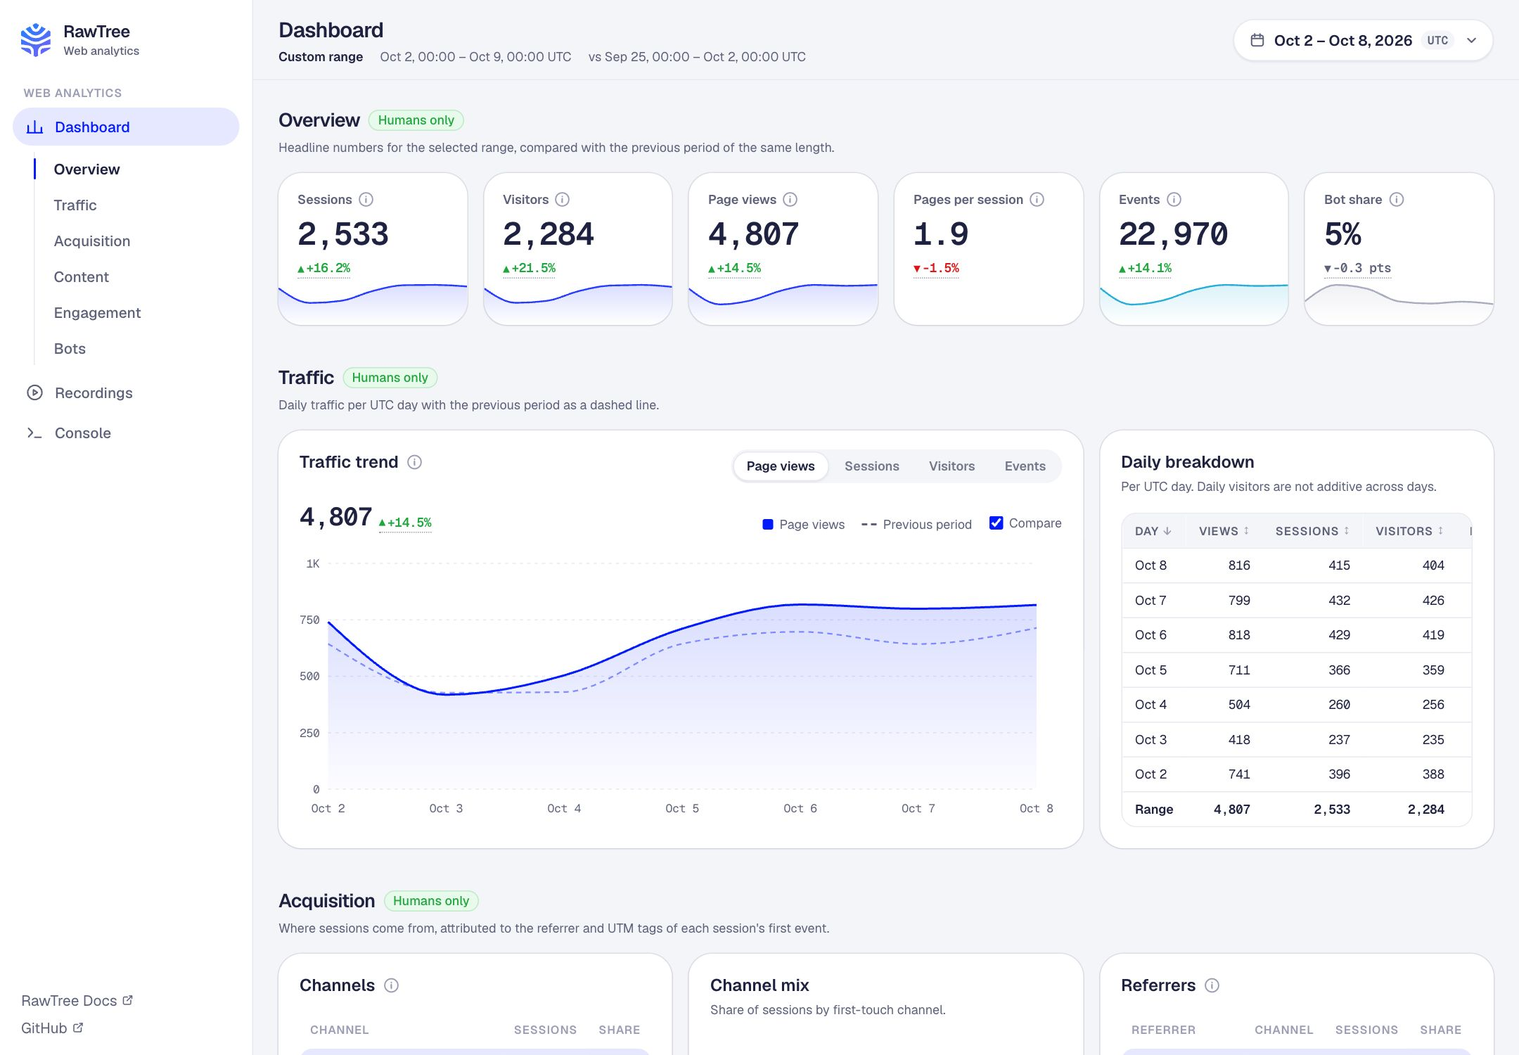
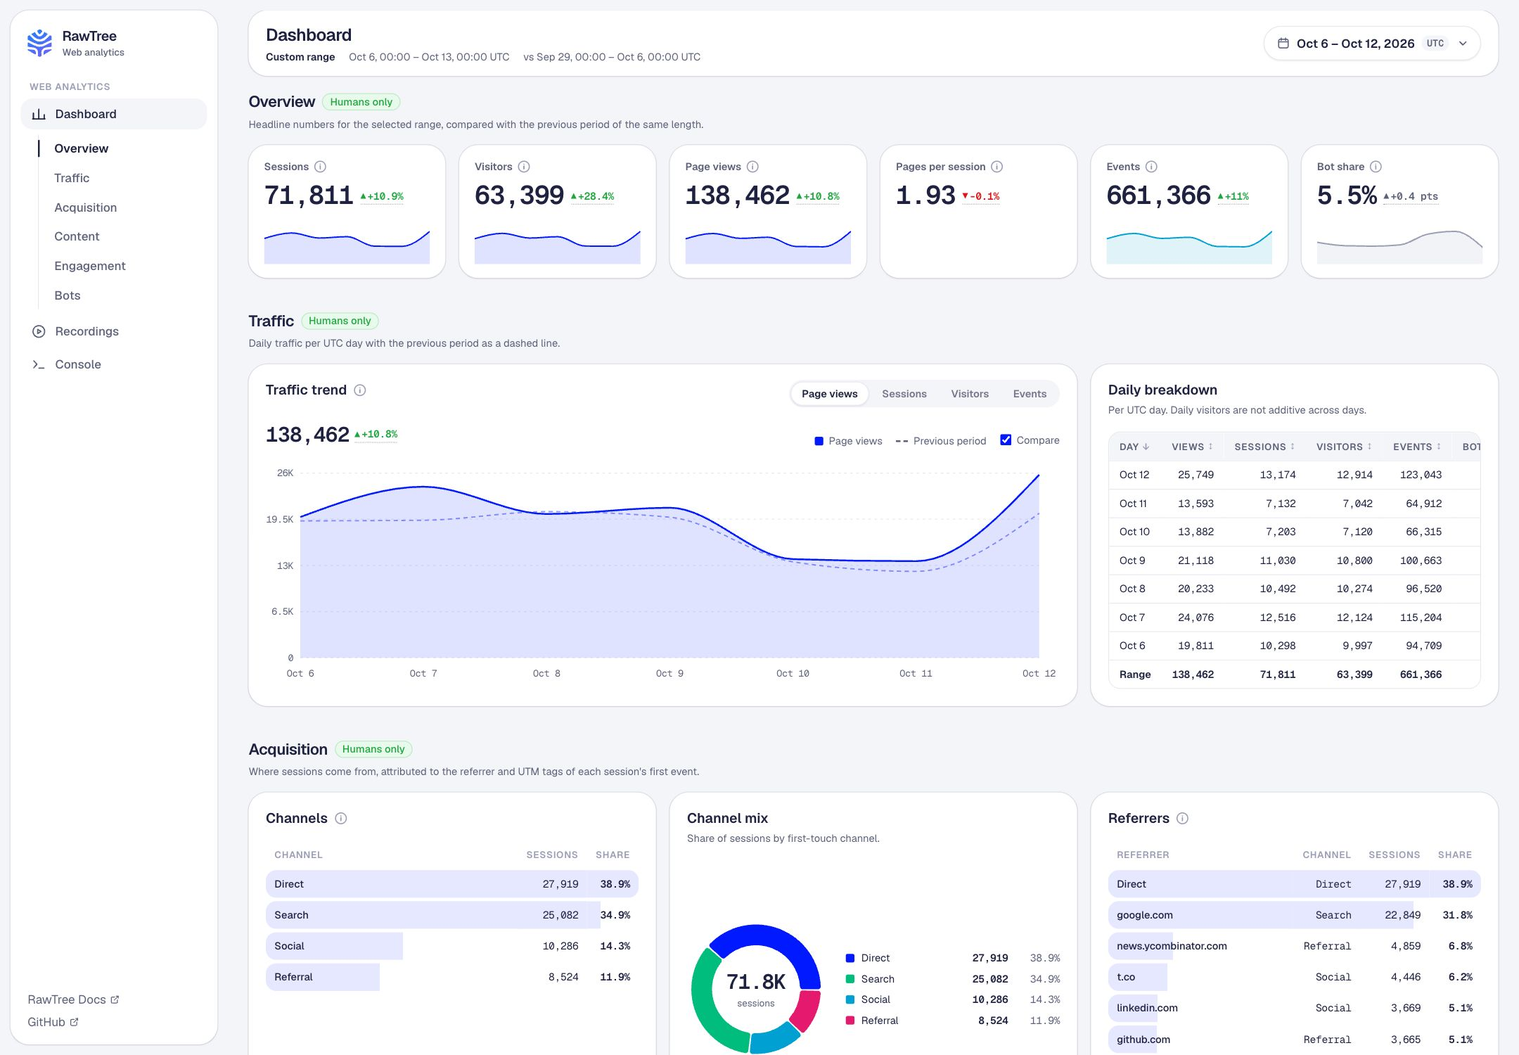
Float the sidebar and page header as cards (#4)
## Summary

Dashboard polish to match the RawTree product: floating card sidebar and
page header, gray nav highlights, stat cards with the change next to the
number, flat chart fills, light tooltips, and a refreshed sign-in
preview.

## Changes

- `app/(dashboard)/layout.tsx`: the app shell moves out of the root
layout into a route group, so `/sign-in` never shows the sidebar (it did
on `/sign-in?expired=1`, where the session cookie is still set). URLs
are unchanged. The sidebar is a full-height floating card; sign out has
an icon.
- `components/ui.tsx`: `PageToolbar` is a sticky row card aligned with
the sidebar card, 16px above the content like the other card gaps.
- `components/sidebar-nav.tsx`: active page and section use gray instead
of blue.
- `components/charts.tsx`: stat cards show the change beside the number
(its dotted underline sits on the number's baseline) and the sparkline
below with more space. Sparklines and trend charts use a flat fill
instead of a gradient.
- `components/tooltip.tsx`: light card tooltips, matching the chart
ones.
- `components/console/console-app.tsx`: viewport height accounts for the
new top padding.
- `public/overview.jpg`: retaken from ~1.47M synthetic events in a
separate `demo_events` table; the real `events` table is untouched.
- `README.md`, `AGENTS.md`, `lib/queries.ts`: paths updated for the
route group.

## Test plan

- [x] `npm run typecheck`
- [x] `npm test` (47 + 48 passing)
[…]

diff --git a/components/charts.tsx b/components/charts.tsx
@@ -3,7 +3,7 @@
 // segmented-control). Annotations, dialogs, and tooltips-as-library are dropped.
 "use client";
 
-import { type ReactNode, useId, useState } from "react";
+import { type ReactNode, useState } from "react";
 import { Area, AreaChart, CartesianGrid, ComposedChart, Line, Pie, PieChart, Tooltip, XAxis, YAxis } from "recharts";
 import { formatDay, formatLongDay, formatValue, relativeChange, type ValueFormat } from "../lib/format.ts";
 import { Tooltip as HoverTip } from "./tooltip.tsx";
@@ -11,12 +11,13 @@ import { CardEmpty, ChartSwatch, DashboardCard, Delta, InfoTip, SegmentedControl
 
 const previousPeriodInfo = "Change versus the previous period of the same length.";
 // Dotted underline (a border, since text-decoration skips the inline-flex Delta) marks the change as hoverable.
-const deltaTrigger = "inline-flex cursor-help border-b border-dotted border-muted-foreground/60 pb-px outline-none hover:border-muted-foreground focus-visible:rounded-xs focus-visible:ring-2 focus-visible:ring-ring";
+// Lifted 6px so the underline, not the text baseline, lines up with the bottom of the number beside it
+// (top, not translate: a transform would become the containing block of the fixed tooltip).
+const deltaTrigger = "relative -top-1.5 inline-flex cursor-help border-b border-dotted border-muted-foreground/60 pb-px outline-none hover:border-muted-foreground focus-visible:rounded-xs focus-visible:ring-2 focus-visible:ring-ring";
 const tooltipClass = "min-w-44 max-w-72 rounded-lg border bg-card px-3 py-2.5 text-xs text-card-foreground shadow-popover";
 
 /** Decorative daily trend for stat cards. */
 function Sparkline({ values, color = chartColors.primary, label }: { values: readonly number[]; color?: string; label: string }) {
-  const gradient = `spark-${useId().replace(/:/g, "")}`;
   return (
     <AreaChart
       accessibilityLayer={false}
@@ -27,14 +28,8 @@ function Sparkline({ values, color = chartColors.primary, label }: { values: rea
       role="img"
       style={{ width: "100%", height: "100%" }}
     >
-      <defs>
-        <linearGradient id={gradient} x1="0" x2="0" y1="0" y2="1">
-          <stop offset="0%" stopColor={color} stopOpacity={0.28} />
-          <stop offset="100%" stopColor={color} stopOpacity={0} />
-        </linearGradient>
-      </defs>
       <YAxis domain={[0, "dataMax"]} hide />
-      <Area dataKey="value" dot={false} fill={`url(#${gradient})`} isAnimationActive={false} stroke={color} strokeWidth={1.6} type="monotone" />
+      <Area dataKey="value" dot={false} fill={color} fillOpacity={0.12} isAnimationActive={false} stroke={color} strokeWidth={1.6} type="monotone" />
     </AreaChart>
   );
 }
@@ -68,29 +63,24 @@ export function StatCard({
 }) {
   return (
     <article
-      className={cn(
-        "relative flex min-h-34 flex-col gap-1.5 rounded-2xl bg-card px-4.5 pt-4 text-card-foreground shadow-soft ring-1 ring-foreground/10",
-        trend && trend.length > 1 ? "pb-11" : "pb-3.5",
-      )}
+      className="flex min-h-34 flex-col gap-1.5 rounded-2xl bg-card px-4.5 pt-4 pb-4 text-card-foreground shadow-soft ring-1 ring-foreground/10"
       data-testid={`stat-${label.toLowerCase().replace(/ /g, "-")}`}
     >
       <header className="flex items-center gap-1">
         <h3 className="m-0 text-xs font-semibold text-muted-foreground">{label}</h3>
         {info ? <InfoTip>{info}</InfoTip> : null}
       </header>
-      <p className="numeric relative z-1 m-0 text-3xl font-semibold">{formatValue(value, format)}</p>
-      <div className="relative z-1 flex flex-1 flex-wrap content-start items-center gap-x-1.5 gap-y-0.5 text-xs text-muted-foreground">
+      <div className="flex flex-wrap items-baseline gap-x-2 gap-y-0.5">
+        <p className="numeric m-0 text-3xl font-semibold">{formatValue(value, format)}</p>
         {change !== undefined ? (
-          <>
-            <HoverTip className={deltaTrigger} content={previousPeriodInfo}>
-              <Delta inverse={inverse} kind={changeKind} neutral={neutral} value={change} />
-            </HoverTip>
-          </>
+          <HoverTip className={cn(deltaTrigger, "text-xs")} content={previousPeriodInfo}>
+            <Delta inverse={inverse} kind={changeKind} neutral={neutral} value={change} />
+          </HoverTip>
         ) : null}
-        {hint ? <span>{hint}</span> : null}
       </div>
+      {hint ? <p className="m-0 text-xs text-muted-foreground">{hint}</p> : null}
       {trend && trend.length > 1 ? (
-        <div className="pointer-events-none absolute inset-x-0 bottom-0 h-10 overflow-hidden rounded-b-2xl opacity-85">
+        <div className="pointer-events-none mt-auto h-14 pt-4">
           <Sparkline color={trendColor} label={`${label} by day`} values={trend} />
         </div>
       ) : null}
@@ -188,21 +178,12 @@ function TimeSeriesChart({
   showComparison: boolean;
   label: string;
 }) {
-  const gradientPrefix = `ts-${useId().replace(/:/g, "")}`;
   return (
     <div
       className="[&_.recharts-cartesian-axis-tick-value]:font-mono [&_.recharts-cartesian-axis-tick-value]:tracking-tight [&_:focus:not(:focus-visible)]:outline-none"
       style={{ height: 260 }}
     >
       <ComposedChart aria-label={label} data={[...data]} margin={{ top: 16, right: 24, bottom: 0, left: 0 }} responsive style={{ width: "100%", height: "100%" }}>
-        <defs>
-          {series.map((item) => (
-            <linearGradient id={`${gradientPrefix}-${item.key}`} key={item.key} x1="0" x2="0" y1="0" y2="1">
-              <stop offset="0%" stopColor={item.color} stopOpacity={0.24} />
-              <stop offset="100%" stopColor={item.color} stopOpacity={0.02} />
-            </linearGradient>
-          ))}
-        </defs>
         <CartesianGrid stroke="var(--border)" strokeDasharray="3 4" vertical={false} />
         <XAxis
           axisLine={false}
@@ -262,7 +243,8 @@ function TimeSeriesChart({
             activeDot={{ r: 4, strokeWidth: 0 }}
             dataKey={item.key}
             dot={data.length === 1}
-            fill={`url(#${gradientPrefix}-${item.key})`}
+            fill={item.color}
+            fillOpacity={0.12}
             isAnimationActive={false}
             key={item.key}
             name={item.label}

diff --git a/app/layout.tsx b/app/layout.tsx
@@ -1,17 +1,9 @@
-// App shell ported from Treewatcher (components/app-shell.tsx): a fixed left sidebar
-// with the RawTree logo and navigation. Each page renders its own sticky toolbar,
-// because only pages receive search params (the date range). Signed out (sign-in mode),
-// there is no sidebar: the only page that renders is /sign-in, which brings its own header and footer.
+// Root document. The sidebar shell lives in app/(dashboard)/layout.tsx so /sign-in never
+// shows it, even while an expired session cookie is still set.
 import type { Metadata } from "next";
-import Image from "next/image";
 import "@fontsource-variable/geist";
 import "@fontsource-variable/geist-mono";
 import "./globals.css";
-import rawtreeLogo from "../components/rawtree-logo.svg";
-import { IconExternalLink } from "@tabler/icons-react";
-import { SidebarNav } from "../components/sidebar-nav.tsx";
-import { getAccess } from "../lib/access.ts";
-import { signOut } from "./sign-in/actions.ts";
 
 const title = "RawTree Web Analytics";
 const description = "Dashboard and replay for the events collected by @rawtree/analytics.";
@@ -24,58 +16,10 @@ export const metadata: Metadata = {
   twitter: { card: "summary_large_image", title, description },
 };
 
-export default async function RootLayout({ children }: { children: React.ReactNode }) {
-  const access = await getAccess();
-  if (!access) {
-    return (
-      <html lang="en">
-        <body>
-          {children}
-        </body>
-      </html>
-    );
-  }
+export default function RootLayout({ children }: { children: React.ReactNode }) {
   return (
     <html lang="en">
-      <body>
-        <div className="flex min-h-screen max-md:block">
-          <aside className="sticky top-0 flex h-screen w-60 shrink-0 flex-col gap-2 overflow-y-auto border-r border-sidebar-border bg-sidebar px-3 py-4 text-sidebar-foreground max-md:static max-md:h-auto max-md:w-auto max-md:border-r-0 max-md:border-b max-md:pt-2.5 max-md:pb-1.5">
-            <div className="flex items-center gap-3 px-2 pt-1 pb-4 font-semibold tracking-tight max-md:hidden">
-              <Image alt="" className="h-8 w-auto" src={rawtreeLogo} />
-              <span className="grid leading-tight">
-                RawTree
-                <small className="text-2xs font-medium tracking-normal text-muted-foreground">Web analytics</small>
-              </span>
-            </div>
-            <SidebarNav />
-            <div className="mt-auto grid gap-3 max-md:mt-2">
-              <nav aria-label="Resources" className="grid gap-1.5 px-2 text-sm text-muted-foreground max-md:hidden">
-                {[
-                  { label: "RawTree Docs", href: "https://rawtree.com/docs" },
-                  { label: "GitHub", href: "https://github.com/rawtreedb/rawtree-web-analytics" },
-                ].map((link) => (
-                  <a className="inline-flex w-fit items-center gap-1 hover:text-foreground" href={link.href} key={link.label} rel="noopener noreferrer" target="_blank">
-                    {link.label}
-                    <IconExternalLink aria-hidden className="size-3" />
-                  </a>
-                ))}
-              </nav>
-              {access.mode === "env" ? null : (
-                <form action={signOut} className="grid gap-1 border-t border-sidebar-border px-2 pt-3 max-md:flex max-md:items-center max-md:justify-between">
-                  <span className="truncate text-xs text-muted-foreground" title={access.label}>
-                    {access.label}
-                  </span>
-                  <button className="w-fit text-sm font-medium text-muted-foreground hover:text-foreground" type="submit">
-                    Sign out
-                  </button>
-                </form>
-              )}
-            </div>
-          </aside>
-          {/* PageToolbar mirrors this padding with negative margins to bleed to the edges; keep them in sync. */}
-          <main className="@container min-w-0 flex-1 p-4 lg:p-6">{children}</main>
-        </div>
-      </body>
+      <body>{children}</body>
     </html>
   );
 }

diff --git a/app/(dashboard)/layout.tsx b/app/(dashboard)/layout.tsx
@@ -1,0 +1,53 @@
+// App shell ported from Treewatcher (components/app-shell.tsx): a floating card sidebar
+// with the RawTree logo and navigation. Each page renders its own sticky toolbar,
+// because only pages receive search params (the date range). /sign-in sits outside this group.
+import Image from "next/image";
+import rawtreeLogo from "../../components/rawtree-logo.svg";
+import { IconExternalLink, IconLogout } from "@tabler/icons-react";
+import { SidebarNav } from "../../components/sidebar-nav.tsx";
+import { requireAccess } from "../../lib/access.ts";
+import { signOut } from "../sign-in/actions.ts";
+
+export default async function DashboardLayout({ children }: { children: React.ReactNode }) {
+  const access = await requireAccess();
+  return (
+    <div className="flex min-h-screen max-md:block">
+      <aside className="sticky top-3 m-3 flex h-[calc(100dvh-1.5rem)] w-60 shrink-0 flex-col gap-2 overflow-y-auto rounded-2xl bg-sidebar px-3 py-4 text-sidebar-foreground shadow-soft ring-1 ring-foreground/10 max-md:static max-md:m-0 max-md:h-auto max-md:w-auto max-md:rounded-none max-md:border-b max-md:border-sidebar-border max-md:pt-2.5 max-md:pb-1.5 max-md:shadow-none max-md:ring-0">
+        <div className="flex items-center gap-3 px-2 pt-1 pb-4 font-semibold tracking-tight max-md:hidden">
+          <Image alt="" className="h-8 w-auto" src={rawtreeLogo} />
+          <span className="grid leading-tight">
+            RawTree
+            <small className="text-2xs font-medium tracking-normal text-muted-foreground">Web analytics</small>
+          </span>
+        </div>
+        <SidebarNav />
+        <div className="mt-auto grid gap-3 max-md:mt-2">
+          <nav aria-label="Resources" className="grid gap-1.5 px-2 text-sm text-muted-foreground max-md:hidden">
+            {[
+              { label: "RawTree Docs", href: "https://rawtree.com/docs" },
+              { label: "GitHub", href: "https://github.com/rawtreedb/rawtree-web-analytics" },
+            ].map((link) => (
+              <a className="inline-flex w-fit items-center gap-1 hover:text-foreground" href={link.href} key={link.label} rel="noopener noreferrer" target="_blank">
+                {link.label}
+                <IconExternalLink aria-hidden className="size-3" />
+              </a>
+            ))}
+          </nav>
+          {access.mode === "env" ? null : (
+            <form action={signOut} className="grid gap-1 border-t border-sidebar-border px-2 pt-3 max-md:flex max-md:items-center max-md:justify-between">
+              <span className="truncate text-xs text-muted-foreground" title={access.label}>
+                {access.label}
+              </span>
+              <button className="inline-flex w-fit items-center gap-1.5 text-sm font-medium text-muted-foreground hover:text-foreground" type="submit">
+                <IconLogout aria-hidden className="size-4" />
+                Sign out
+              </button>
+            </form>
+          )}
+        </div>
+      </aside>
+      {/* pt-3 matches the sidebar's m-3, so the PageToolbar card lines up with the sidebar card. */}
+      <main className="@container min-w-0 flex-1 px-4 pt-3 pb-4 lg:px-6 lg:pb-6">{children}</main>
+    </div>
+  );
+}

diff --git a/app/(dashboard)/page.tsx b/app/(dashboard)/page.tsx
@@ -3,13 +3,13 @@
 // Treewatcher's growth dashboard. All SQL lives in lib/queries.ts (run by getDashboard);
 // this page only shapes rows for display. Every count is deduplicated by ID in SQL.
 
-import { requireAccess, signInAgainIfRejected } from "../lib/access.ts";
-import { getDashboard, queryErrorMessage, type DashboardData, type DayRow, type Totals } from "../lib/dashboard.ts";
-import { summarizeCrawlers } from "../lib/crawlers.ts";
-import { DAY_MS, previousRange, resolveRange, toUtcDay, type ResolvedRange, type SearchParams } from "../lib/range.ts";
-import { formatValue, ratio, relativeChange } from "../lib/format.ts";
-import { DateFilter } from "../components/date/date-filter.tsx";
-import { DataTableCard, DonutChart, MetricChartCard, StatCard, type ChartRow } from "../components/charts.tsx";
+import { requireAccess, signInAgainIfRejected } from "../../lib/access.ts";
+import { getDashboard, queryErrorMessage, type DashboardData, type DayRow, type Totals } from "../../lib/dashboard.ts";
+import { summarizeCrawlers } from "../../lib/crawlers.ts";
+import { DAY_MS, previousRange, resolveRange, toUtcDay, type ResolvedRange, type SearchParams } from "../../lib/range.ts";
+import { formatValue, ratio, relativeChange } from "../../lib/format.ts";
+import { DateFilter } from "../../components/date/date-filter.tsx";
+import { DataTableCard, DonutChart, MetricChartCard, StatCard, type ChartRow } from "../../components/charts.tsx";
 import {
   Badge,
   BarListCard,
@@ -23,7 +23,7 @@ import {
   StatGrid,
   chartColors,
   crawlerCategoryColors,
-} from "../components/ui.tsx";
+} from "../../components/ui.tsx";
 
 export const dynamic = "force-dynamic";
 

diff --git a/components/sidebar-nav.tsx b/components/sidebar-nav.tsx
@@ -63,7 +63,7 @@ function useActiveSection(enabled: boolean) {
 }
 
 const itemClass =
-  "flex min-h-9 items-center gap-2.5 rounded-full px-3 text-sm font-medium text-muted-foreground transition-colors hover:bg-sidebar-accent hover:text-sidebar-foreground aria-[current=page]:bg-primary/10 aria-[current=page]:text-primary max-md:justify-center";
+  "flex min-h-9 items-center gap-2.5 rounded-lg px-3 text-sm font-medium text-muted-foreground transition-colors hover:bg-sidebar-accent hover:text-sidebar-foreground aria-[current=page]:bg-sidebar-accent aria-[current=page]:text-sidebar-foreground max-md:justify-center";
 
 export function SidebarNav() {
   const pathname = usePathname();
@@ -90,7 +90,7 @@ export function SidebarNav() {
                   "block rounded-md px-2.5 py-1.5 text-sm font-medium text-muted-foreground hover:bg-sidebar-accent hover:text-foreground max-md:whitespace-nowrap",
                   // The active marker sits on the list's left border: pl-2 plus the 1px border.
                   active === id &&
-                    "relative font-semibold text-foreground before:absolute before:inset-y-1.5 before:-left-2.25 before:w-0.5 before:rounded-xs before:bg-primary max-md:bg-muted max-md:before:hidden",
+                    "relative font-semibold text-foreground before:absolute before:inset-y-1.5 before:-left-2.25 before:w-0.5 before:rounded-xs before:bg-sidebar-foreground max-md:bg-muted max-md:before:hidden",
                 )}
                 href={`#${id}`}
               >

diff --git a/components/ui.tsx b/components/ui.tsx
@@ -446,8 +446,8 @@ export function SegmentedLinks({ label, items }: { label: string; items: readonl
 }
 
 /**
- * Sticky page header with the title, meta line, and filters. It bleeds to the main
- * area's edges with negative margins that mirror the shell's `p-4 lg:p-6` padding.
+ * Sticky page header card with the title, meta line, and filters. It sticks at the
+ * sidebar card's top offset; the strip above it hides content scrolling through the gap.
  */
 export function PageToolbar({
   title,
@@ -463,7 +463,7 @@ export function PageToolbar({
   back?: { href: string; label: string };
 }) {
   return (
-    <header className="sticky top-0 z-20 -mx-4 -mt-4 mb-6 flex min-h-19 flex-wrap items-center justify-between gap-x-6 gap-y-3 border-b bg-background-extra/85 px-4 py-3 backdrop-blur-md backdrop-saturate-150 lg:-mx-6 lg:-mt-6 lg:px-6">
+    <header className="sticky top-3 z-20 mb-4 flex min-h-19 flex-wrap items-center justify-between gap-x-6 gap-y-3 rounded-2xl bg-card px-5 py-3 shadow-soft ring-1 ring-foreground/10 before:absolute before:inset-x-0 before:-top-3 before:h-3 before:bg-background-extra">
       <div className="grid min-w-0 grow basis-72 gap-1">
         {back ? (
           <Link className="inline-flex w-fit items-center gap-1 text-xs font-medium text-muted-foreground hover:text-primary" href={back.href}>

diff --git a/app/(dashboard)/recordings/[id]/page.tsx b/app/(dashboard)/recordings/[id]/page.tsx
@@ -3,11 +3,11 @@
 // /api/recordings/[id] in bounded parts.
 
 import Link from "next/link";
-import { requireAccess, signInAgainIfRejected } from "../../../lib/access.ts";
-import { getRecording, queryErrorMessage, type RecordingListItem } from "../../../lib/dashboard.ts";
-import { formatBytes, formatDateTime, formatDuration, formatValue } from "../../../lib/format.ts";
-import { Badge, ErrorCard, PageToolbar, cn } from "../../../components/ui.tsx";
-import { RecordingPlayer } from "../../../components/recording-player.tsx";
+import { requireAccess, signInAgainIfRejected } from "../../../../lib/access.ts";
+import { getRecording, queryErrorMessage, type RecordingListItem } from "../../../../lib/dashboard.ts";
+import { formatBytes, formatDateTime, formatDuration, formatValue } from "../../../../lib/format.ts";
+import { Badge, ErrorCard, PageToolbar, cn } from "../../../../components/ui.tsx";
+import { RecordingPlayer } from "../../../../components/recording-player.tsx";
 
 export const dynamic = "force-dynamic";
 

diff --git a/app/(dashboard)/recordings/page.tsx b/app/(dashboard)/recordings/page.tsx
@@ -2,9 +2,9 @@
 // (/recordings/[id], with the list in its sidebar), or shows why there is nothing to play.
 
 import { redirect } from "next/navigation";
-import { requireAccess, signInAgainIfRejected } from "../../lib/access.ts";
-import { getLatestRecordingId, queryErrorMessage } from "../../lib/dashboard.ts";
-import { CardEmpty, DashboardCard, ErrorCard, PageToolbar } from "../../components/ui.tsx";
+import { requireAccess, signInAgainIfRejected } from "../../../lib/access.ts";
+import { getLatestRecordingId, queryErrorMessage } from "../../../lib/dashboard.ts";
+import { CardEmpty, DashboardCard, ErrorCard, PageToolbar } from "../../../components/ui.tsx";
 
 export const dynamic = "force-dynamic";
 

diff --git a/components/console/console-app.tsx b/components/console/console-app.tsx
@@ -105,10 +105,10 @@ export function ConsoleApp({ database }: { database: string }) {
     startConsole();
     return stopConsole;
   }, []);
-  // With two columns (@5xl) the console fills the viewport (main's padding is p-4 lg:p-6):
+  // With two columns (@5xl, always at lg) the console fills the viewport (main's padding is pt-3 lg:pb-6):
   // toolbar and consent stay put, the controls column and the event table scroll on their own.
   return (
-    <div className="flex w-full flex-col @5xl:h-[calc(100dvh-3rem)]">
+    <div className="flex w-full flex-col @5xl:h-[calc(100dvh-2.25rem)]">
       <PageToolbar
         title="Console"
         badges={<Badge variant="warning">Test events</Badge>}

diff --git a/components/tooltip.tsx b/components/tooltip.tsx
@@ -38,7 +38,8 @@ export function Tooltip({ content, children, className }: { content: string; chi
           role="tooltip"
           style={{ top: position.top, left: position.left, width: WIDTH }}
         >
-          <span className="rounded-md bg-foreground px-2.5 py-1.5 leading-snug text-background shadow-popover">{content}</span>
+          {/* Matches the chart tooltips (tooltipClass in charts.tsx). */}
+          <span className="rounded-lg border bg-card px-3 py-2 leading-snug text-card-foreground shadow-popover">{content}</span>
         </span>
       ) : null}
     </span>

diff --git a/lib/queries.ts b/lib/queries.ts
@@ -1,7 +1,7 @@
 // Every dashboard query, as SQL text only (lib/dashboard.ts runs them). To tune a widget,
 // edit its template below: the doc comment names the widget, and the SQL aliases are the
 // field names the page reads. When you add or rename an alias, update that query's row type
-// (the run<{...}> call in lib/dashboard.ts) and its use in app/page.tsx.
+// (the run<{...}> call in lib/dashboard.ts) and its use in app/(dashboard)/page.tsx.
 //
 // Rules every query keeps:
 // - Delivery is at least once, so the same event_id can be stored twice. Count events with

diff --git a/app/(dashboard)/console/page.tsx b/app/(dashboard)/console/page.tsx
@@ -1,8 +1,8 @@
 // Test console: send events, simulated traffic, and recordings through the real SDK and
 // watch each one reach RawTree. Writes go only to the signed-in visitor's own database.
 
-import { ConsoleApp } from "../../components/console/console-app.tsx";
-import { requireAccess } from "../../lib/access.ts";
+import { ConsoleApp } from "../../../components/console/console-app.tsx";
+import { requireAccess } from "../../../lib/access.ts";
 
 export const dynamic = "force-dynamic";
 
